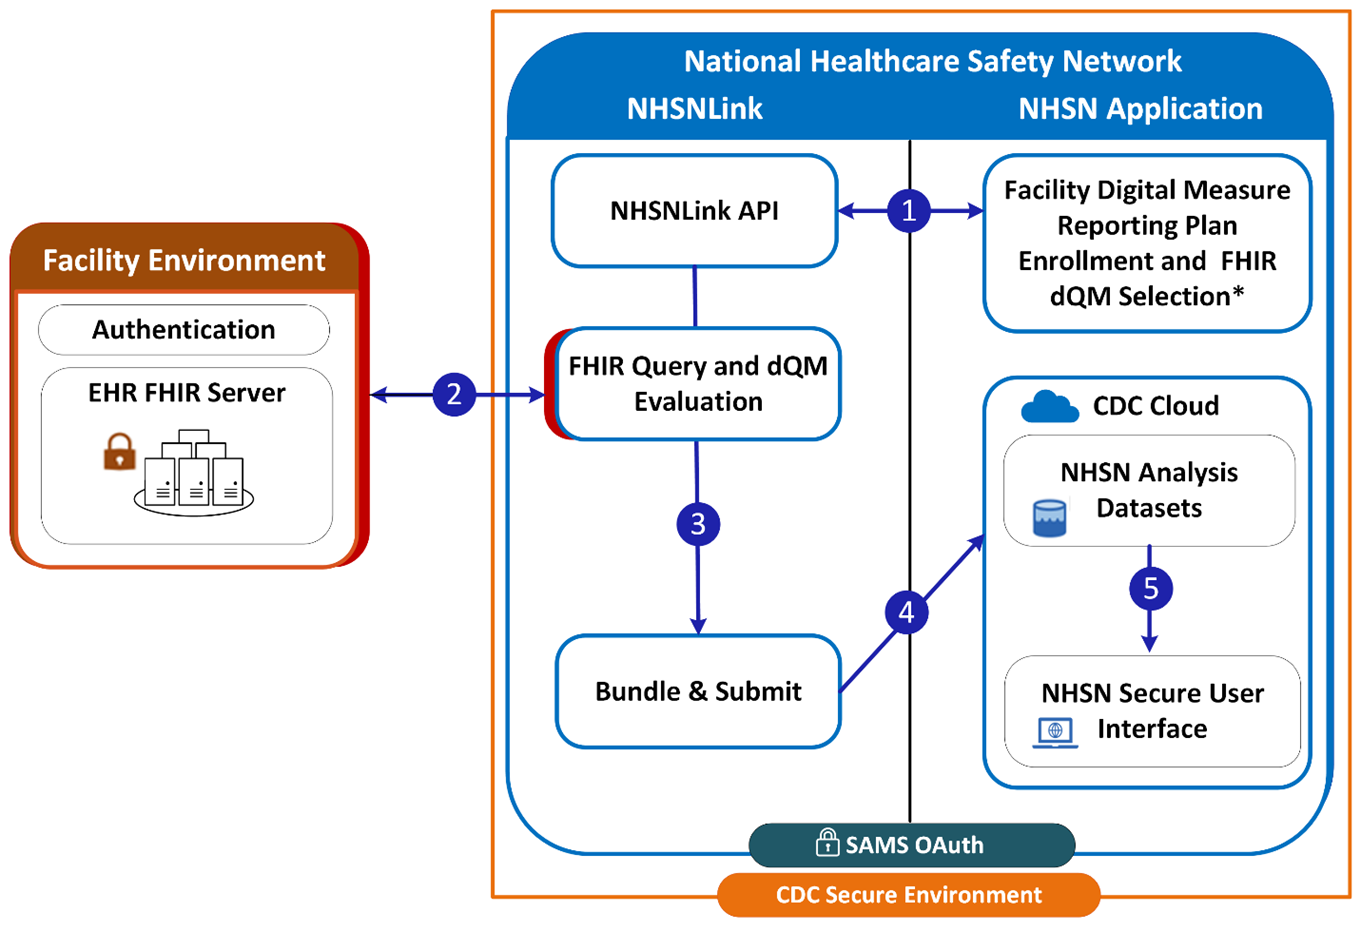
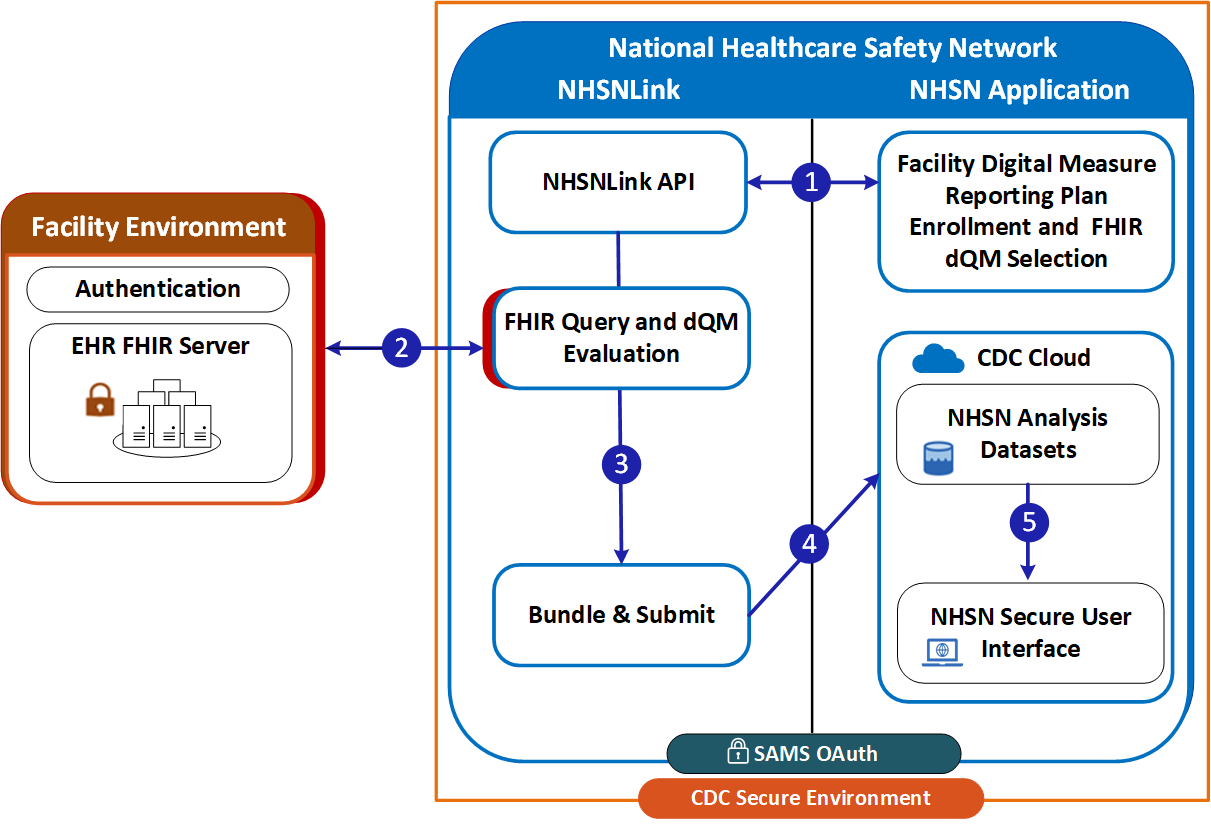
MEASDEV-1980: Remediate image accessibility issues for 508 compliance in dQM IG

Changed region(s): [[0.0, 0.0, 1.0, 1.0], [0.4889, 0.5461, 0.5194, 0.5765]]

diff --git a/input/pagecontent/specification.md b/input/pagecontent/specification.md
@@ -53,30 +53,20 @@ When NHSNLink pulls data from EHRs, both NHSNLink and the NHSN application resid
 
 <div>
 <figure class="figure">
-    <figcaption class="figure-caption"><strong>Figure 1: Process Flow from EHR to NHSN</strong></figcaption>
-    <img src="NHSNProcessFlow.PNG" alt="Figure 1: Process flow from EHR to NHSN" title="Figure 1: Process flow from EHR to NHSN" class="img-responsive img-rounded center-block" width="75%">
-</figure>
-<p></p>
-</div>
-
-<div>
-<figure class="figure">
-    <figcaption class="figure-caption"><strong>Figure 2: How NHSNLink Works</strong></figcaption>
-    <img src="nhsnlink-interactions.png" alt="Figure 2: Flowchart showing the process NHSNLink uses collect and provide data to NHSN as described in the body of the text" title="Figure 2: How NHSNLink Works" class="img-responsive img-rounded center-block" width="75%">
+    <figcaption class="figure-caption"><strong>Figure 1: How NHSNLink Works</strong></figcaption>
+    <img src="nhsnlink-interactions.png" alt="Figure 1: Flowchart showing the process NHSNLink uses collect and provide data to NHSN as described in the body of the text" title="Figure 1: How NHSNLink Works" class="img-responsive img-rounded center-block" width="75%">
 </figure>
 <p>
     API = application programming interface; dQM = digital quality measure; FHIR = Fast Healthcare Interoperability Resources; SAMS = Secure Access Management Services.
 </p>
 <p>
-  Figure 2, above, shows the process NHSNLink uses collect and provide data to NHSN. This process includes:
+  Figure 2 (above) illustrates the process of how healthcare facility data flows securely into NHSN through NHSNLink. This process includes:
   <ol>
-    <li>In the NHSN Application, the facility enrolls in the digital measure reporting plan; FHIR dQM selection is made and then communicated to the NHSNLink API engine.
-        <ul><li>This starts with the facility's readiness to report digital quality measure and that facility has signed NHSN data-use agreements for secure data-sharing.</li></ul>
-    </li>
-    <li>The Facility Environment (doing the reporting) has an authentication mechanism securing their EHR FHIR Server. It is this server from which a Patients of Interest List is extracted and provided to NHSNLink. NHSNLink uses this list to query the Facilities EHR Server using this Patients of Interest List and query the data defined by dQM the dQMs that the facility is enrolled in.</li>
-    <li>NHSNLink then evaluate and filter data as defined by dQM, bundles it into a MeasureReport bundle and applies a pre-qualification process on the data.</li>
-    <li>NHSNLink then submit MeasureReport bundle for patients meeting dQM definition to the NHSN Application through the CDC Cloud.</li>
-    <li>THe NHSN Application ingests and analyzes MeasureReport bundles and makes reports available via secure NHSN user interface.</li>
+    <li>Enrollment and readiness: In the NHSN Application, the facility enrolls in the digital measure reporting plan,The facility selects FHIR dQMs, which are then communicated to the NHSNLink API engine. This step confirms the facility’s readiness to report digital quality measures and that it has signed the NHSN data-use agreements required for secure data sharing.</li>
+    <li>Authentication and patient list: The facility’s EHR FHIR server is secured by an authentication mechanism. From this server, a Patients of Interest List is extracted and provided to NHSNLink. NHSNLink uses this list to query the facility’s EHR server for the data defined by the dQMs the facility is enrolled in.</li>
+    <li>Evaluation and pre-qualification: NHSNLink evaluates and filters the data as defined by each dQM, bundles the data into a MeasureReport, and applies a pre-qualification process on the data.</li>
+    <li>Submission: NHSNLink submits the MeasureReport bundles for patients meeting the dQM definitions to the NHSN Application through the CDC Cloud.</li>
+    <li>Ingestion and reporting: The NHSN Application ingests and analyzes the MeasureReport bundles and makes reports available to facilities via secure NHSN user interface.</li>
   </ol>
 </p>
 </div>

diff --git a/input/pagecontent/validation-pre-qualification.md b/input/pagecontent/validation-pre-qualification.md
@@ -28,22 +28,19 @@ Validation and subsequent pre-qualification occur after data evaluation and befo
 <p></p>
 </div>
 <p>
-  Figure 1, above, represents the process flow for pre-qualification. This process includes:
+  Figure 1 (above) represents the process flow for pre-qualification. This process includes:
   <ol>
-    <li>Primary dQM data is retrieve from the EHR Data Source through a secure FHIR API using the Patients of Interest List and the dQM definitions that the facility is enrolled in.</li>
-    <li>This data goes through an initial evaluation within involves data normalization and determination of what data is reportable.
+    <li>Data retrieval: Primary dQM data is retrieved from the EHR Data Source through a secure FHIR API. This uses the Patients of Interest List and the dQM definitions in which the facility is enrolled.</li>
+    <li>Initial evaluation: The data goes through an initial evaluation, which includes normalization and determination of what data is reportable.</li>
+    <li>Filtering: Data determined to be reportable continues through the process. Data that is not reportable is discarded and does not move forward.</li>
+    <li>Augmentation: Reportable data is augmented with related supplemental data retrieved from the same EHR Data Source API.</li>
+    <li>Validation and bundling: The submission dataset is validated and packaged into a MeasureReport bundle.</li>
+    <li>Pre-qualification: The dataset undergoes pre-qualification, which identifies potential issues (errors, warnings, informational). Each issue is categorized.</li>
+    <li>Acceptability check: A key component of each category is acceptability, used to determine whether an issue is acceptable for submission to the NHSN Application.</li>
+    <li>Submission outcome:
       <ul>
-        <li>Data this is determines as reportable, will continue through the process.</li>
-        <li>Data that is not reportable is discarded and does not continue further in the process.</li>
-      </ul>
-    </li>
-    <li>The data this is reportable is augmented with related supplemental data retrieve from the same EHR Data Source API.</li>
-    <li>The submission dataset is subject to an initial validation and bundled up into a MeasureReport bundle.</li>
-    <li>A pre-qualification process is run on the submission dataset which identifies potential issues (errors, warnings and informational) which are categorized.</li>
-    <li>A key component of every category is “acceptability”, which is used to determine if the type of issue is considered acceptable for submission to the NHSN Application.
-      <ul>
-        <li>If a submission has not issues or only "acceptable" issues the submission is successful and sent to the NHSN Appliaction.</li>
-        <li>If one or more unacceptable categories exist within a submission dataset, the entire dataset will not be sent to the NHSN Application and a review and remediation process can take place.</li>
+        <li>If no issues exist, or only “acceptable” issues are found, the submission is successful and sent to the NHSN Application.</li>
+        <li>If one or more unacceptable issues exist, the dataset is not sent forward. Instead, it undergoes a review and remediation process</li>
       </ul>
     </li>
   </ol>
